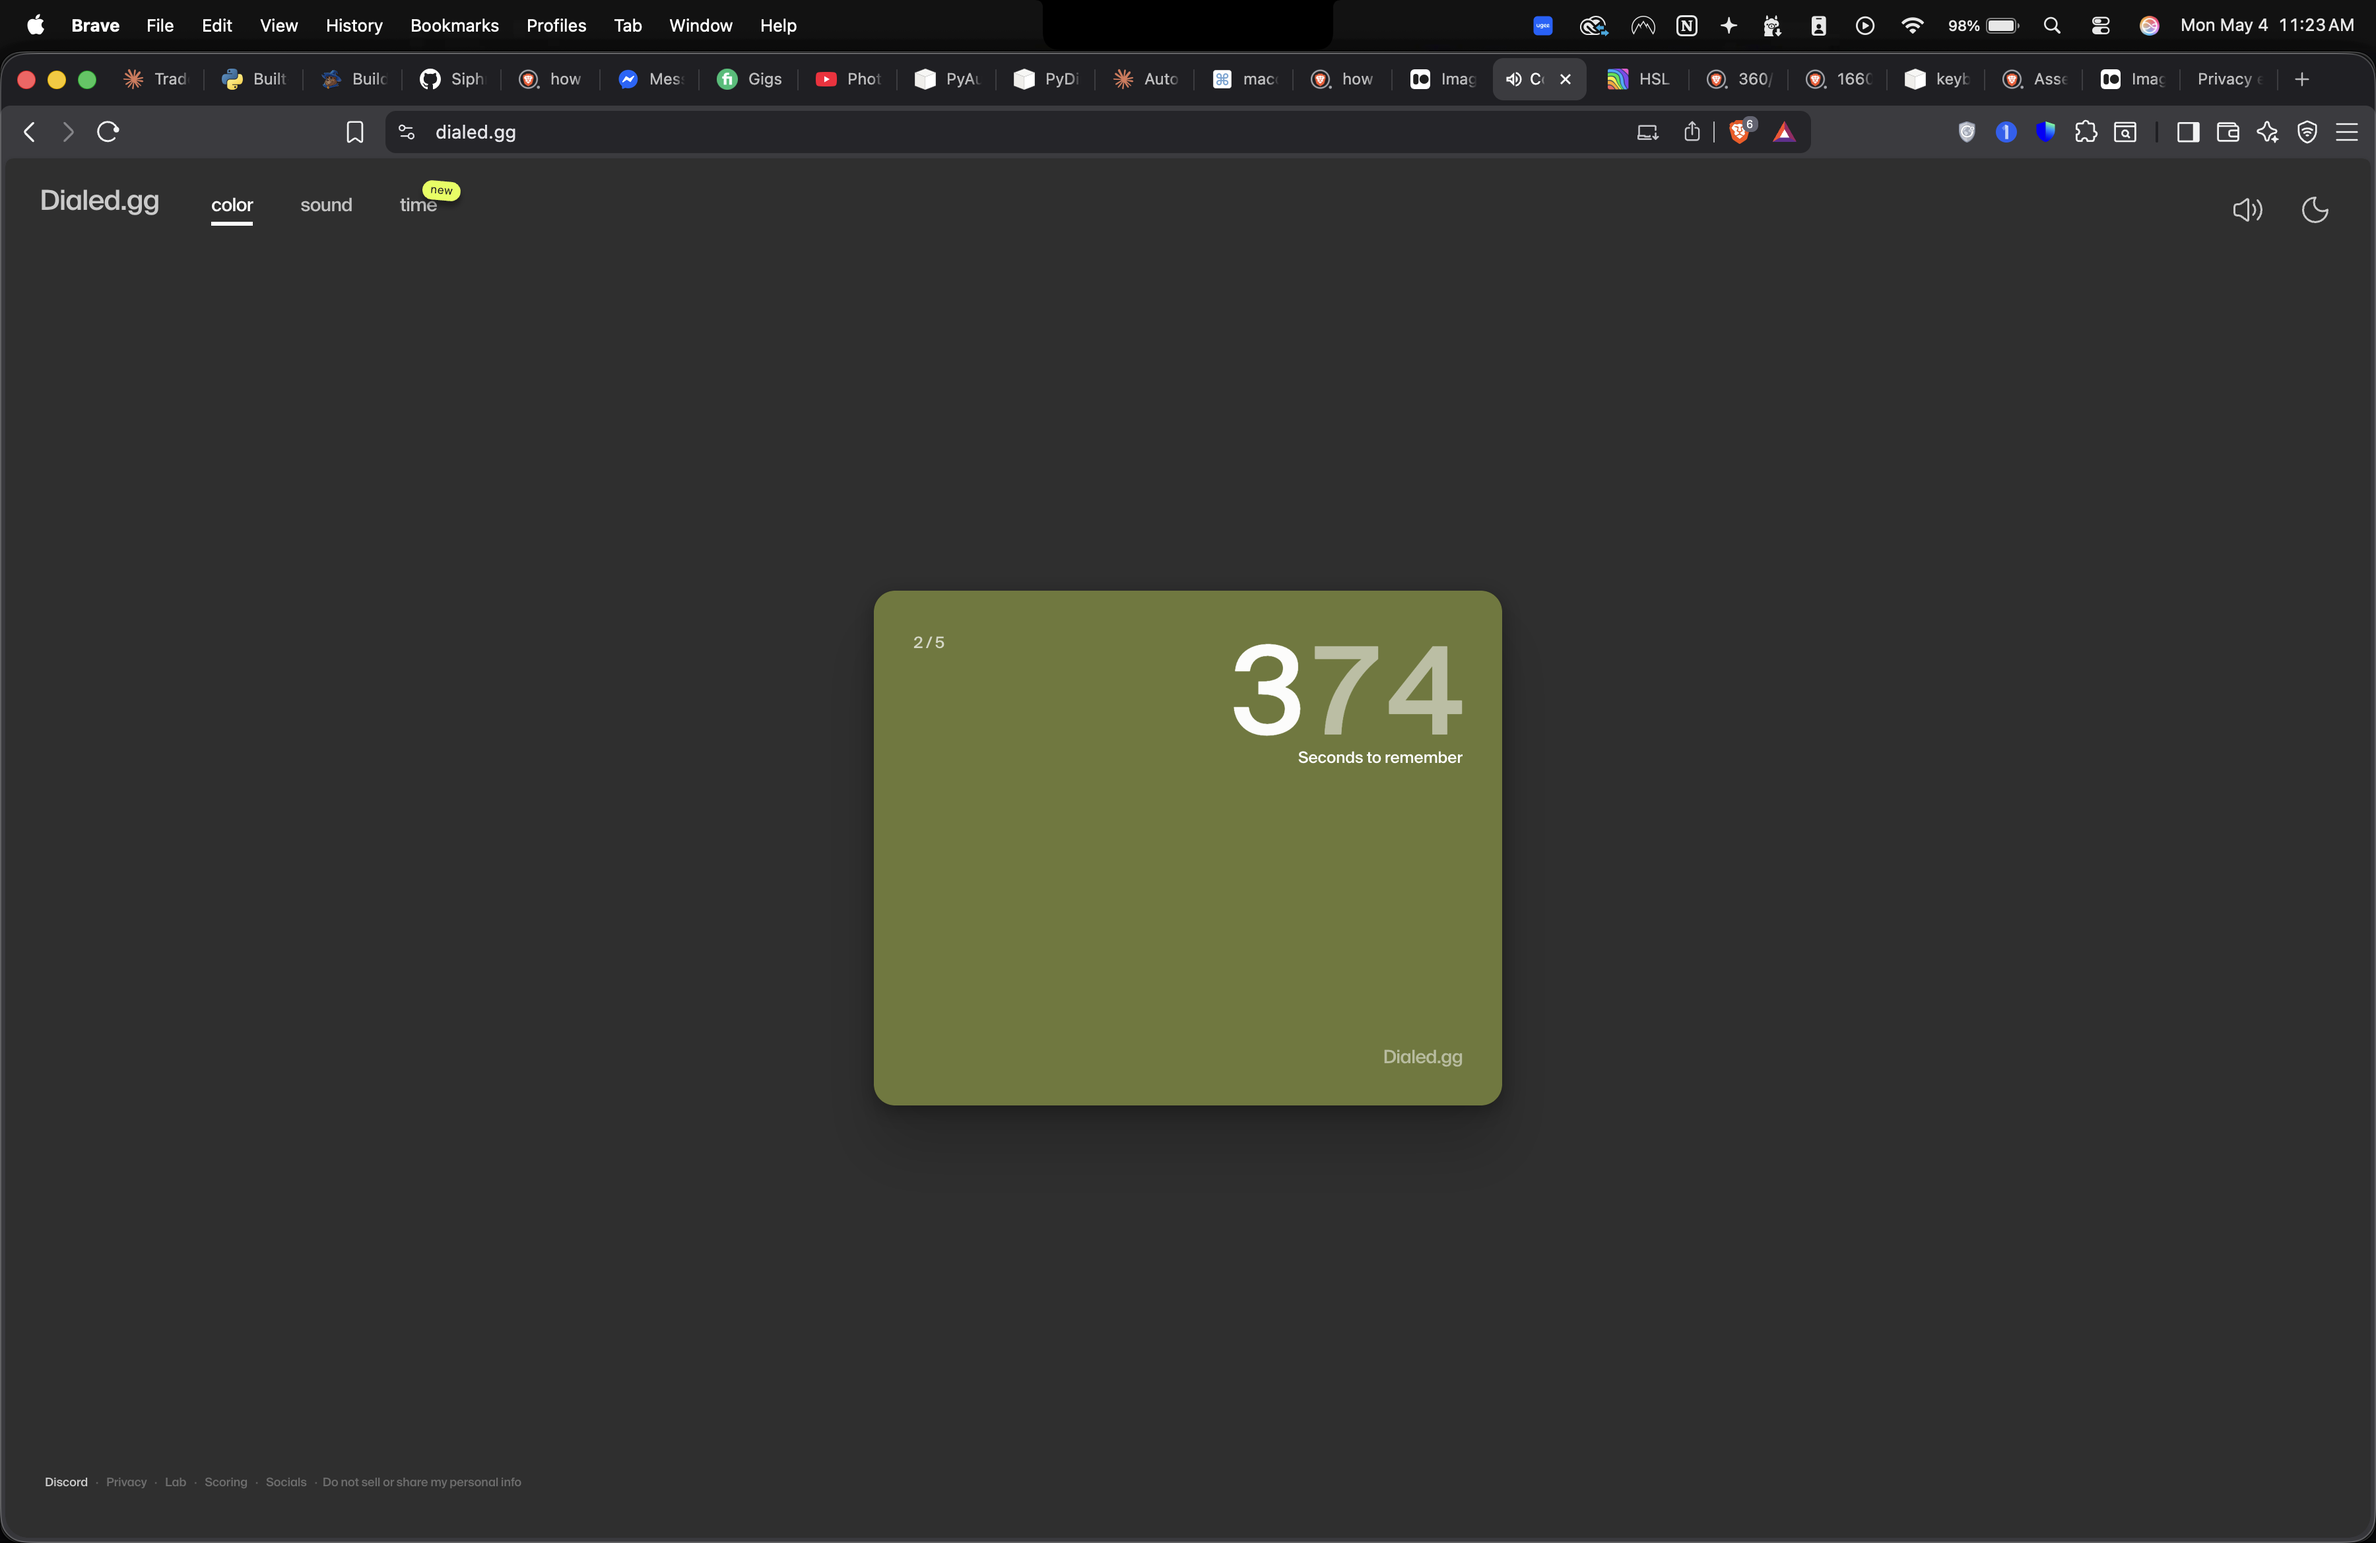
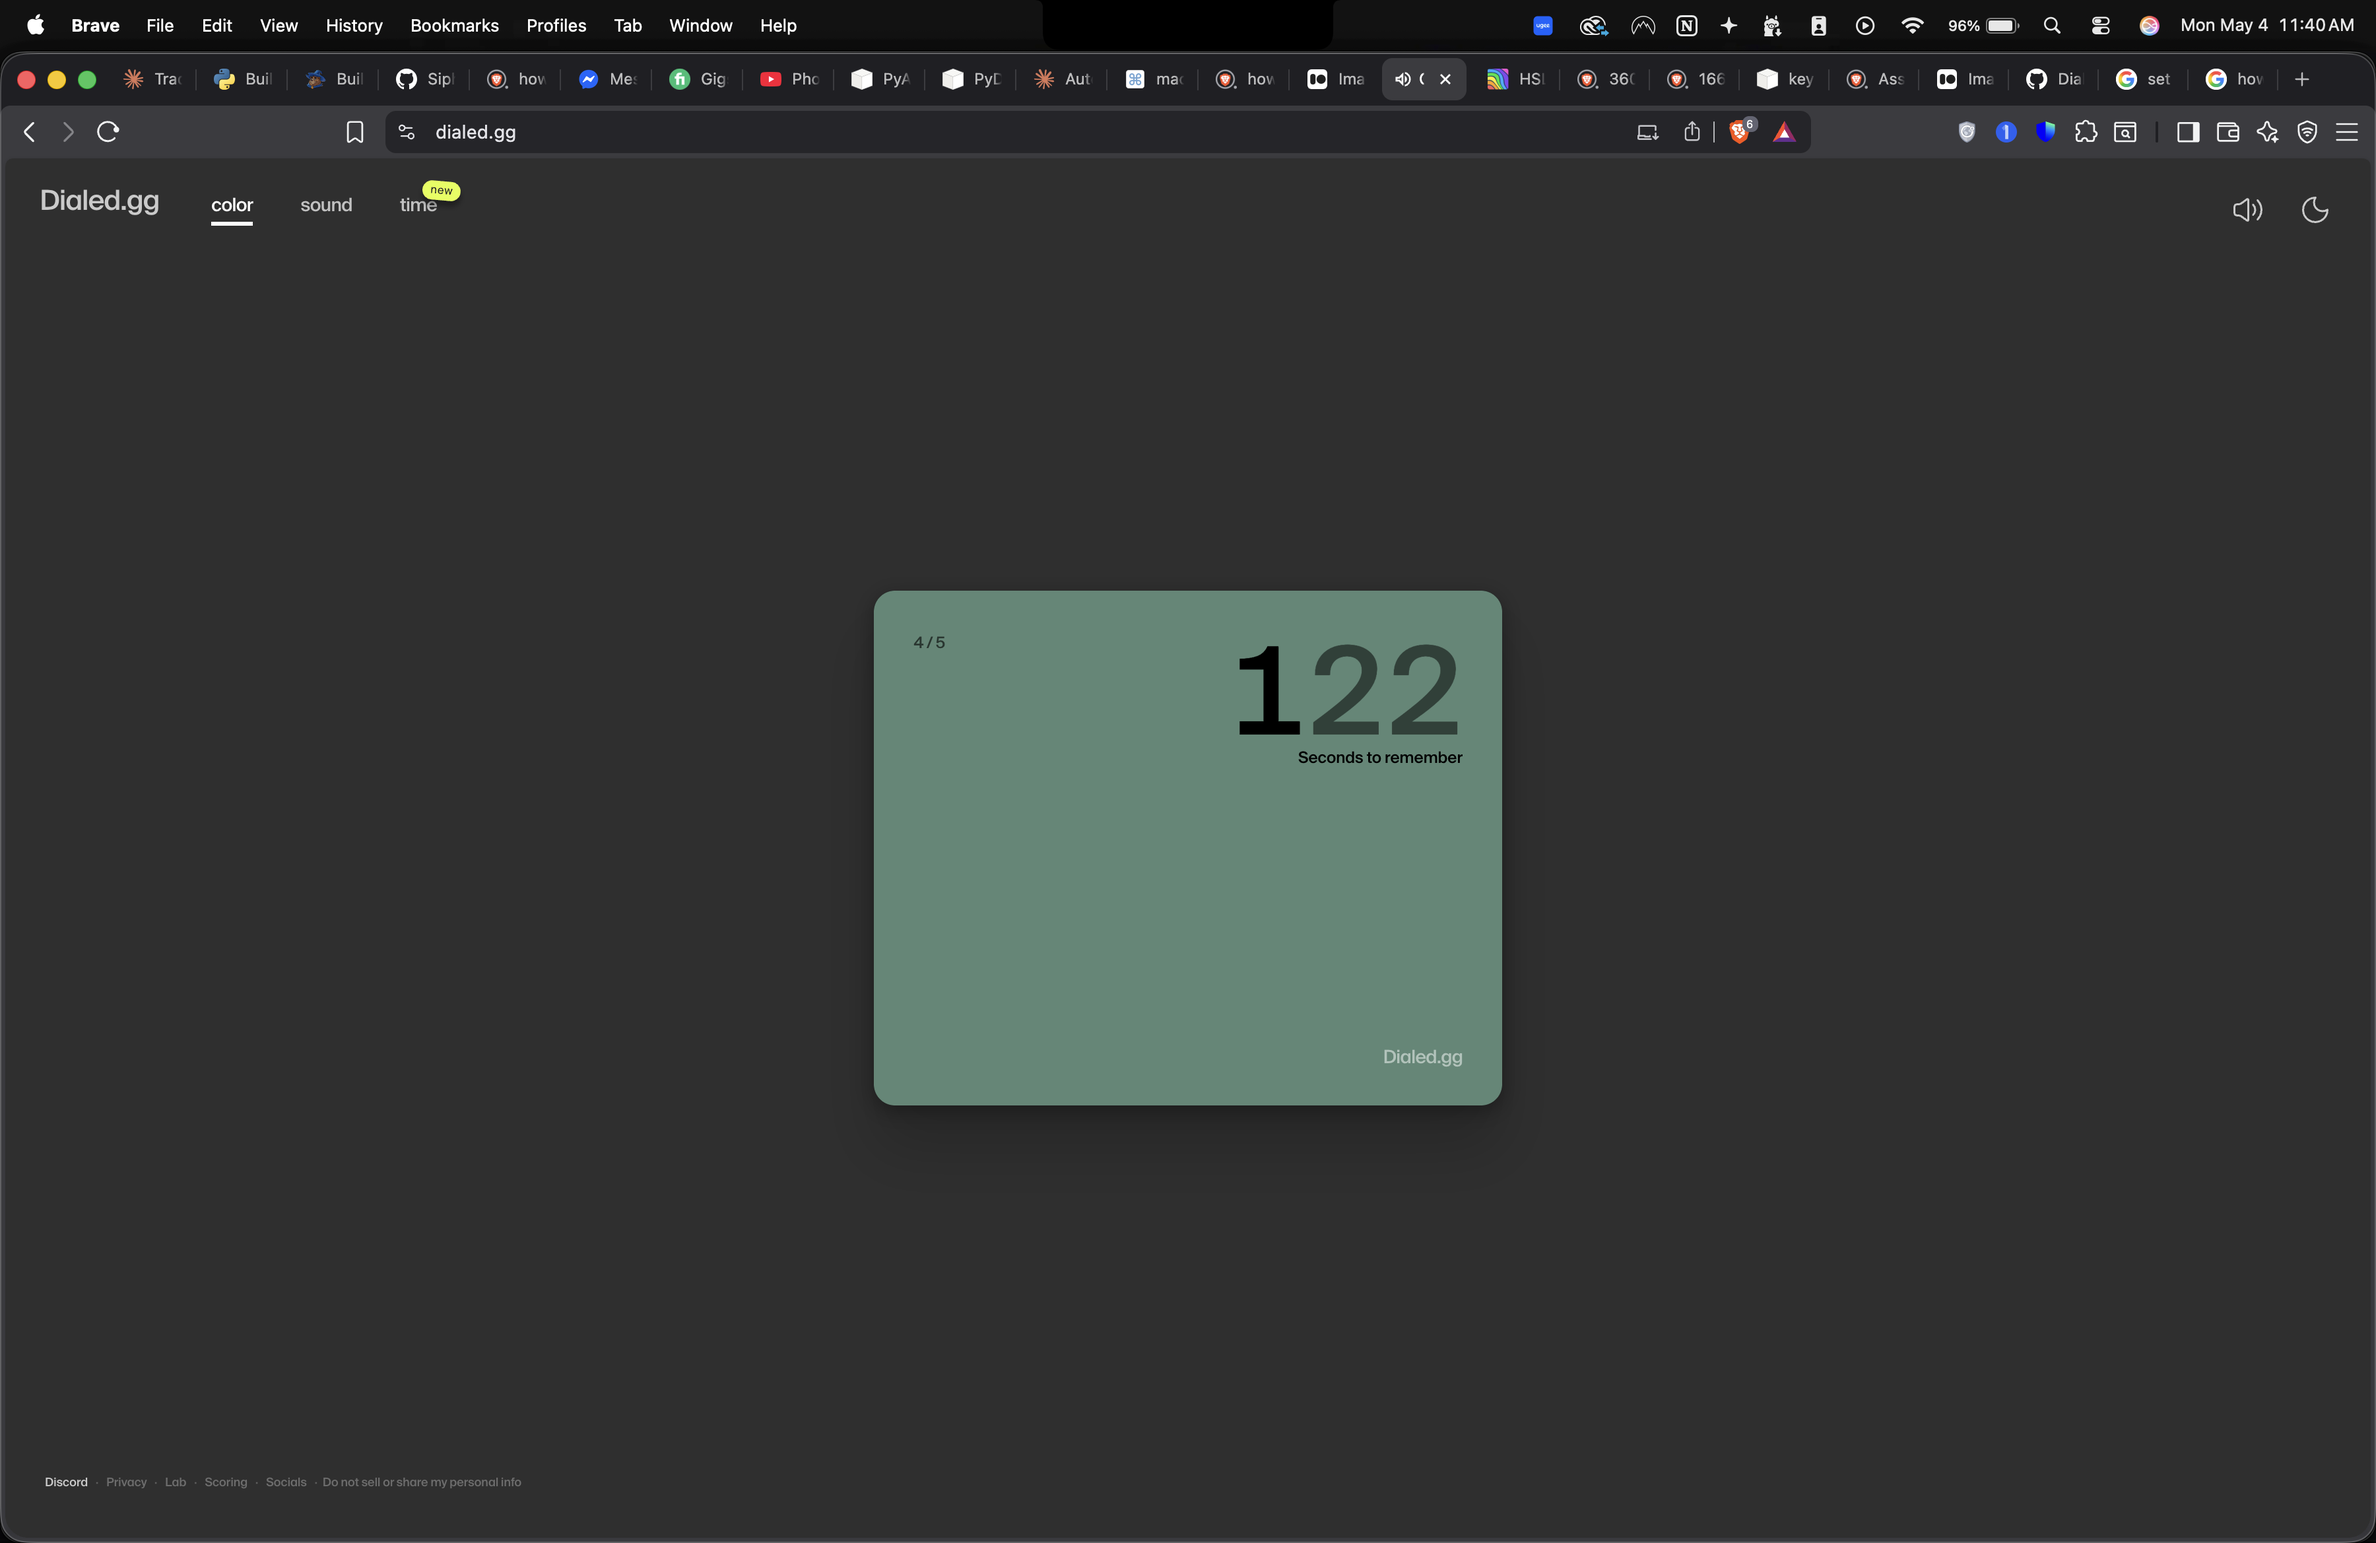
97.5% Accuracy | Replace HSL with HSB, added 1 extra iteration for the loop

Changed region(s): [[0.3422, 0.3747, 0.6533, 0.7181], [0.0933, 0.0312, 0.9644, 0.0624]]

diff --git a/main.py b/main.py
@@ -12,27 +12,31 @@ def wait_for_key(target=keyboard.Key.shift_r):
     with keyboard.Listener(on_press=lambda k: False if k == target else None) as listener:
         listener.join()
 
-def rgb_to_hsl(rgb: tuple) -> tuple[int, int, int]:
+def rgb_to_hsb(rgb: tuple) -> tuple[int, int, int]:
     r, g, b = rgb[0] / 255.0, rgb[1] / 255.0, rgb[2] / 255.0
 
     max_c = max(r, g, b)
     min_c = min(r, g, b)
-    l = (max_c + min_c) / 2.0
+    d = max_c - min_c
 
-    if max_c == min_c:
-        h = s = 0.0
+    # Brightness
+    brightness = max_c
+
+    # Saturation
+    s = 0.0 if max_c == 0 else d / max_c
+
+    # Hue
+    if d == 0:
+        h = 0.0
+    elif max_c == r:
+        h = (g - b) / d + (6 if g < b else 0)
+    elif max_c == g:
+        h = (b - r) / d + 2
     else:
-        d = max_c - min_c
-        s = d / (1 - abs(2 * l - 1))
-        if max_c == r:
-            h = (g - b) / d + (6 if g < b else 0)
-        elif max_c == g:
-            h = (b - r) / d + 2
-        else:
-            h = (r - g) / d + 4
-        h /= 6
+        h = (r - g) / d + 4
+    h /= 6
 
-    return round(h * 360), round(s * 100), round(l * 100)
+    return round(h * 360), round(s * 100), round(brightness * 100)
 
 def pickColor(hsl, hue_position, saturation_position, brightness_position):
     hue_starting = hue_position[0]
@@ -52,27 +56,27 @@ def pickColor(hsl, hue_position, saturation_position, brightness_position):
 
     wait_for_key()
 
-    pyautogui.moveTo(hue_starting[0], hue_y)
+    pyautogui.moveTo(hue_starting[0], hue_y, 2)
     pyautogui.click()
-    pyautogui.moveTo(saturation_starting[0], saturation_y)
+    pyautogui.moveTo(saturation_starting[0], saturation_y, 2)
     pyautogui.click()
-    pyautogui.moveTo(brightness_starting[0], brightness_y)
+    pyautogui.moveTo(brightness_starting[0], brightness_y, 2)
     pyautogui.click()
 
 
     
 
 def main():
-    for i in range(0, 4):
+    for i in range(0, 5):
         wait_for_key()
         screenshot = pyautogui.screenshot()
         screenshot.save("screenshot.png")
 
         rgb_color = pyautogui.pixel(1821, 1304)
-        hsl = rgb_to_hsl(rgb_color)
-
-        pickColor(hsl, HUE_POSITION, SATURATION_POSITION, BRIGHTNESS_POSITION)
-
+        hsb = rgb_to_hsb(rgb_color)
+        print(hsb)
+        pickColor(hsb, HUE_POSITION, SATURATION_POSITION, BRIGHTNESS_POSITION)
+        time.sleep(1)
 
 
 if __name__ == "__main__":    main()
